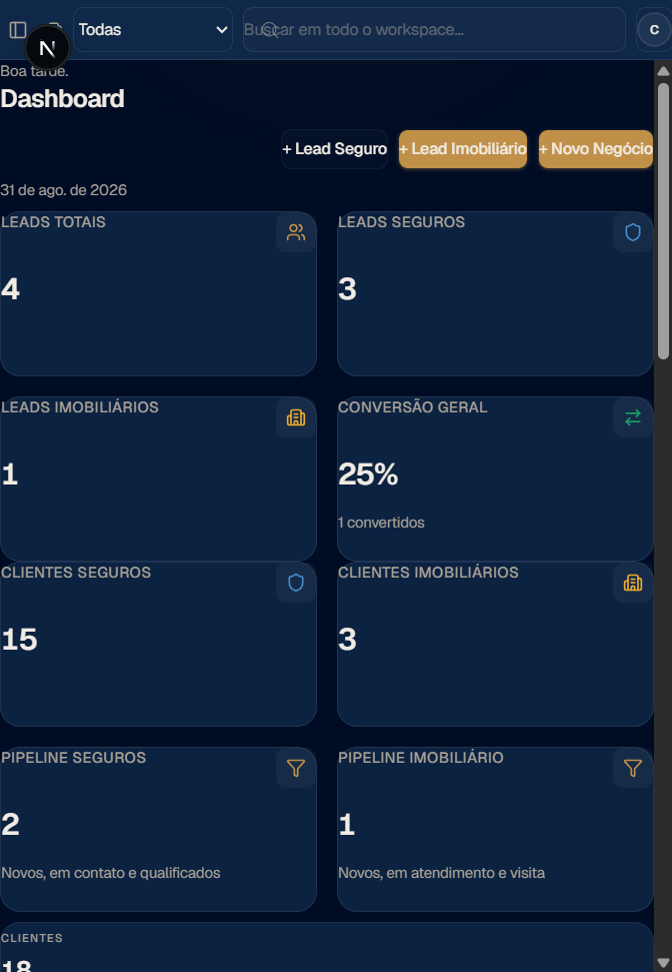
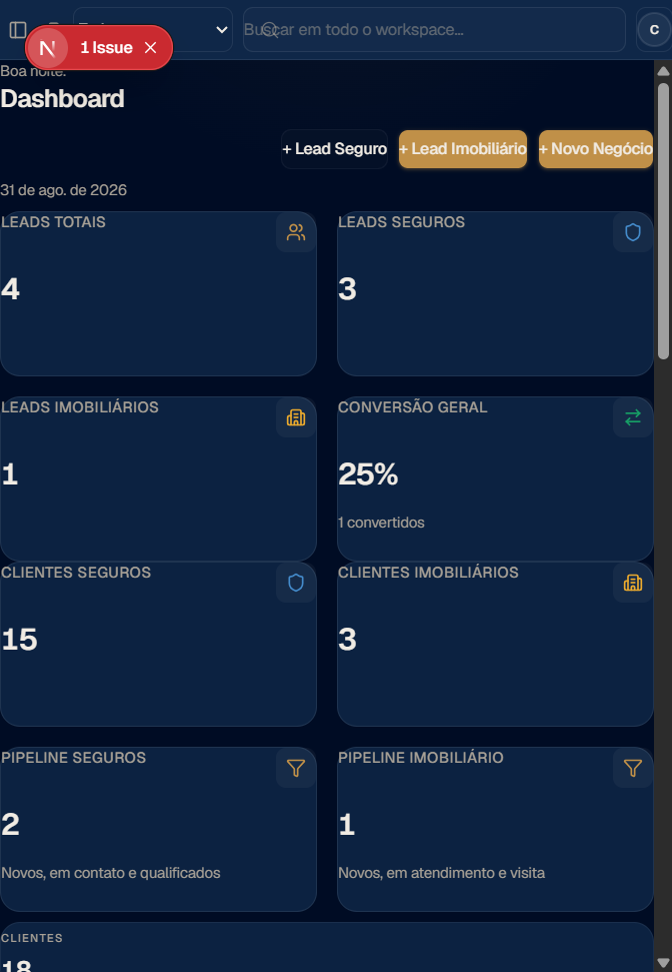
docs: revalidate CrmCaptureActions on Dashboard, Leads and Pipeline

Changed region(s): [[0.0312, 0.0, 0.2812, 0.0926]]

diff --git a/docs/reports/crm-capture-actions-validation.md b/docs/reports/crm-capture-actions-validation.md
@@ -1,7 +1,7 @@
 # Validação final — CrmCaptureActions
 
-**Data:** 2026-08-31  
-**Commit:** `a381d91` — `fix(ux): share CrmCaptureActions on Dashboard, Leads and Pipeline`  
+**Data:** 2026-08-31 (revalidado 19:30 BRT)  
+**Commit da implementação:** `a381d91` — `fix(ux): share CrmCaptureActions on Dashboard, Leads and Pipeline`  
 **Deploy:** **não realizado**
 
 ---
@@ -10,20 +10,22 @@
 
 | CTA | Permissão | Isolamento |
 |-----|-----------|------------|
-| + Lead Seguro | `leads:manage` (`useCanManage("leads:view")`) | Independente |
-| + Lead Imobiliário | `leads:manage` | Independente |
-| + Novo Negócio | `crm:manage` (`useCanManage("crm:view")`) | Independente |
+| + Lead Seguro | `leads:manage` (`useCanManage("leads:view")`) | Independente de `crm:manage` |
+| + Lead Imobiliário | `leads:manage` | Independente de `crm:manage` |
+| + Novo Negócio | `crm:manage` (`useCanManage("crm:view")`) | Independente de `leads:manage` |
 
-`resolveCrmCaptureVisibility` em `apps/web/lib/crm/crm-capture-visibility.ts`:
+`resolveCrmCaptureVisibility`:
 
-- só `leads:manage` → os dois leads; **não** esconde o deal porque ele já não entra no grupo
-- só `crm:manage` → **+ Novo Negócio** permanece
-- nenhuma das duas → o grupo inteiro some
-- as duas → os três CTAs
+| canManageLeads | canManageCrm | Resultado |
+|----------------|--------------|-----------|
+| sim | sim | os três CTAs |
+| sim | não | só os dois leads |
+| não | sim | só + Novo Negócio |
+| não | não | grupo oculto |
 
-Testes: `node --experimental-strip-types --test apps/web/lib/crm/crm-capture-visibility.spec.ts apps/web/lib/crm/crm-create-navigation.spec.ts` → **6/6 pass**.
+Testes: `node --test --experimental-strip-types apps/web/lib/crm/crm-capture-visibility.spec.ts apps/web/lib/crm/crm-create-navigation.spec.ts` → **6/6 pass**.
 
-Nenhum `PermissionGate` envolve o trio inteiro. Em Leads/Pipeline, `Importar` continua em gate próprio (`leads:manage` / `crm:manage`) e não controla os CTAs de captura.
+Nenhum `PermissionGate` envolve o trio. `Importar` tem gate próprio e não controla os CTAs de captura.
 
 ---
 
@@ -45,7 +47,7 @@ Prints:
 
 ## 3. Smoke
 
-`node scripts/local-capture-smoke.cjs` (localhost, ignora `API_URL` de produção):
+`node scripts/local-capture-smoke.cjs` (localhost):
 
 ```
 [OK] Health — 200
@@ -62,7 +64,7 @@ Prints:
 
 ---
 
-## 4. Arquivos alterados
+## 4. Arquivos da implementação (`a381d91`)
 
 | Arquivo | Papel |
 |---------|--------|
@@ -72,9 +74,10 @@ Prints:
 | `apps/web/lib/crm/crm-create-navigation.ts` | Hrefs canônicos |
 | `apps/web/lib/crm/crm-create-navigation.spec.ts` | Contratos dos hrefs |
 | `apps/web/components/dashboard/dashboard-home.tsx` | Usa `CrmCaptureActions` |
-| `apps/web/components/leads/leads-page.tsx` | Header + deep link `?create=` one-shot |
+| `apps/web/components/leads/leads-page.tsx` | Header + deep link `?create=` |
 | `apps/web/components/crm/deals-page.tsx` | Pipeline usa `CrmCaptureActions` |
 | `apps/web/components/crm/crm-page-header-actions.tsx` | `flex-wrap` no grupo primary |
+| `apps/web/components/leads/lead-create-menu.tsx` | Empty state (dois leads) |
 | `scripts/local-capture-smoke.cjs` | Smoke localhost das três rotas |
 | `docs/reports/crm-capture-actions-rca.md` | RCA |
 | `docs/reports/crm-capture-actions/*.png` | Prints |
